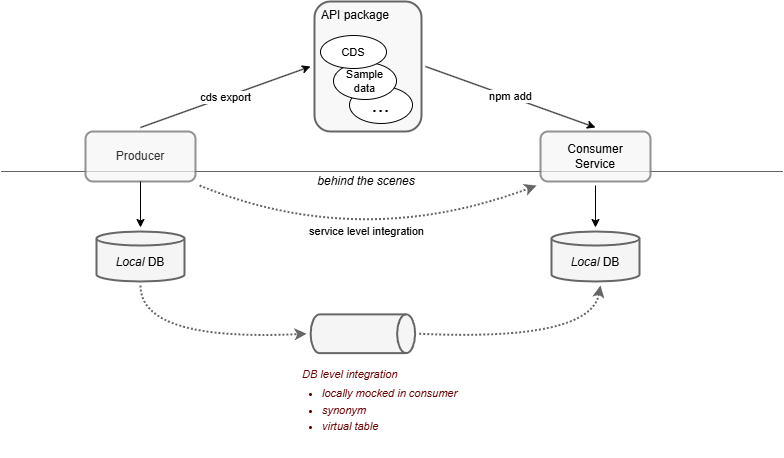
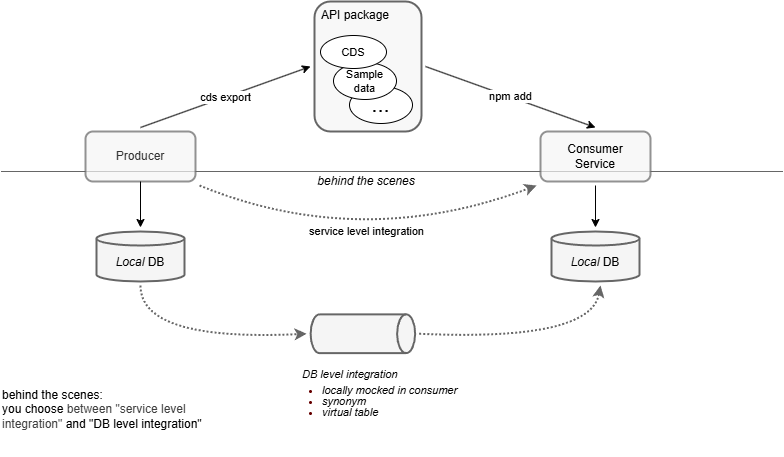
upd

diff --git a/README.md b/README.md
@@ -8,15 +8,15 @@ This repository contains the material for the SAP TechEd 2025 session called AD1
 
 In this document we use the following abbreviations:
 * CAP for [SAP Cloud Application Programming Model](https://cap.cloud.sap/docs/)
-* HANA for [SAP HANA Cloud](https://www.sap.com/products/data-cloud/hana.html)
+* HANA for [SAP HANA Cloud, SAP HANA Database](https://www.sap.com/products/data-cloud/hana.html)
 * BTP for [SAP Business Technology Platform](https://www.sap.com/products/technology-platform.html)
 * BDC for [SAP Business Data Cloud](https://www.sap.com/products/data-cloud.html)
 
 
 ## Overview
 
-This session introduces attendees to Data Federation with CAP,
-and in particular shows how to integrate a Data Product of BDC into a CAP application.
+This session introduces attendees to the concept of Data Federation with CAP,
+and then shows how to apply this concept to integrate a Data Product of BDC into a CAP application.
 
 CAP Data Federation is about sharing data between two CAP apps or between a CAP app and another party.
 We distinguish between what a developer needs to do in the model and the technical
@@ -29,14 +29,20 @@ The picture shows Data Federation between two CAP apps, but the general pattern 
 The producing app provides an interface to the data and publishes its definition. The consuming app imports
 the interface definition and builds on top of it.
 
-In the first part of this session, you build two CAP apps: _xflights_ is an app that holds masterdata
+In the first part of this session (Exercises 1 and 2), you build two CAP apps: _xflights_ is an app that holds masterdata
 for flights, airlines, ... and provides an API to access the data. _xtravels_ allows to book travels and flights
 and makes use of the masterdata provided by _xflights_.
 
 
-In the second part of the session, you extend the _xtravels_ app and also consume a BDC Data Product.
+In the second part of the session (Exercises 3 and 4), you extend the _xtravels_ app and also consume a BDC Data Product.
 
 <br>![](./assets/images/i_0020.png)
+
+In CAP, Data Product consumption is always realized via virtual tables and remote sources in a HANA Cloud database instance.
+That is, the CAP application doesn't directly communicate with BDC via the Delta Sharing protocol,
+but utilizes a HANA remote source with the "deltasharing" adapter for this communication. 
+The Data Product's share tables are represented via virtual tables in HANA, so that from a modelling perspective
+they are not different from local tables.
 
 This session focuses on the CAP part of the integration: we assume that there already is a BDC tenant with
 the required Data Product installed, and that we have access to that tenant.
@@ -81,7 +87,7 @@ Product entities with virtual tables in the prepared schema (and thus to a BDC t
     - [Exercise 2.5 - Run the XTravels app with flights being mocked](exercises/ex2/README.md#exercise-25---run-the-xtravels-app-with-flights-being-mocked)
     - [Exercise 2.6 - Get flights data from xflights app](exercises/ex2/README.md#exercise-26---get-flights-data-from-xflights-app)
     - [Exercise 2.7 - Cleanup](exercises/ex2/README.md#exercise-27---cleanup)
-- [Exercise 3 - Consume S/4 Data Product Customer](exercises/ex3/)
+- [Exercise 3 - Consume Data Product "Customer" from S/4](exercises/ex3/)
     - [Exercise 3.1 - Discovery](exercises/ex3/README.md#exercise-31---discovery)
     - [Exercise 3.2 - Download Data Product metadata](exercises/ex3/README.md#exercise-32---download-data-product-metadata)
     - [Exercise 3.3 - Import Data Product metadata](exercises/ex3/README.md#exercise-33---import-data-product-metadata)

diff --git a/exercises/ex4/README.md b/exercises/ex4/README.md
@@ -3,14 +3,14 @@
 In this exercise, you will deploy the database model of the xtravels app
 to a HANA Cloud instance and connect the Data Product entity `Customer`
 to a BDC tenant.
-You will run the xtravels app in hybrid mode: the app still runs locally on your laptop,
-but is connected to an HDI container in a HANA Cloud instance.
+You will run the xtravels app in [hybrid mode](https://cap.cloud.sap/docs/advanced/hybrid-testing#hybrid-testing):
+the app still runs locally on your laptop, but is connected to an HDI container in a HANA Cloud instance.
 
 
 This session focuses on the CAP part of the integration with a BDC Data Product.
 Prior to the session, we have already
 * prepared a BDC tenant with the "Customer" Data Product installed
-* created a HANA remote source in the HANA instance, which points to the share
+* created a HANA remote source in the HANA instance, which points to the share (see also [assets/ex4/HANA-setup](../../assets/ex4/HANA-setup.md))
 * created a schema `DP_VT_CUSTOMER` in the HANA instance with virtual tables pointing
   to the share tables in the BDC tenant.
 * prepared a user-provided service `grantor-dp-admin` in Cloud Foundry that holds credentials for accessing this schema.
@@ -71,6 +71,9 @@ like _sap.s4com.Customer.v1.Customer.hdbtable_.
     deploy the database model of your app to it.
 
     Note that a file `.cdsrc-private.json` has been created in the _xtravels_ folder.
+    When running the app in hybrid mode in the next step, this file helps to bind
+    the `db` service of the app to a managed Cloud Foundry service of kind `hana`
+    with plan `hdi-shared` that represents your HDI container.
 
 
 
@@ -111,7 +114,8 @@ but this time it is connected to the HANA Cloud instance:
 
 3. Open the [xtravels web app](http://localhost:4004/travels/webapp/index.html).  
 You still see the same test data as before, but now the data isn't coming from an
-SQLite in-memory database, but from a mock table in the HANA instance.
+SQLite in-memory database, but from a table in the HANA instance filled with the same
+test data.
 
 4. Stop `cds watch` by typing `Ctrl+C` into the xtravels terminal.
 
@@ -177,6 +181,9 @@ and let CAP do the necessary steps.
 2. Move the file _sap.s4com-Customer.v1.Customer.csv_ from folder _xtravels/db/data_ to folder _xtravels_.
 
     <br>![](/exercises/ex4/images/04_05_0010.png)
+
+    This is simply to avoid that the _.csv_ file with test data for `Customer` is deployed.
+    Otherwise the deployment would fail, because there is no `Customer` table anymore.
 
 3. In folder _xtravels/db/src_, create a file _sap.s4com.Customer.v1.Customer_syn.hdbsynonym_ with the following content:
     ```json
@@ -273,9 +280,9 @@ The plugin is activated via configuration. Here you have to provide the schema i
 for the Data Product entities in the imported API package can be found.
 
 1. Open file _xtravels/package.json_ and add a `cds` section:
-    ```jsonc
+    ```json
     {
-      // ...
+      ... existing content ...
       "cds": {
         "requires": {
           "sap.s4com.Customer.v1": {

diff --git a/exercises/ex3/README.md b/exercises/ex3/README.md
@@ -1,4 +1,4 @@
-# Exercise 3 - Consume S/4 Data Product Customer
+# Exercise 3 - Consume Data Product "Customer" from S/4
 
 From a modelling point of view, there is no difference between consuming
 data from another CAP app (like you did in the previous exercise) or consuming
@@ -21,20 +21,20 @@ in [SAP Business Accelerator Hub](https://api.sap.com/).
 
 1. Go to [SAP Business Accelerator Hub](https://api.sap.com/).
 
-    <br>![](/exercises/ex3/images/03_01_0010.png)
+
 
 2. In the top row, go to tab [Data Products](https://api.sap.com/dataproducts).
 
-    <br>![](/exercises/ex3/images/03_01_0020.png)
+    <br>![](/exercises/ex3/images/03_01_0010.png)
 
 3. Here you can browse the available Data Products.
-Enter "Customer"  in the search field and press "Return".
+Enter "Customer" in the search field and press "Return".
 
-    <br>![](/exercises/ex3/images/03_01_0030.png)
+    <br>![](/exercises/ex3/images/03_01_0020.png)
 
 4. Click on the tile for Data Product [Customer](https://api.sap.com/dataproduct/sap-s4com-Customer-v1/overview).
 
-    <br>![](/exercises/ex3/images/03_01_0040.png)
+    <br>![](/exercises/ex3/images/03_01_0030.png)
 
 
 
@@ -43,20 +43,26 @@ Enter "Customer"  in the search field and press "Return".
 After completing these steps, you will have downloaded a CSN file with the metadata of
 Data Product "Customer" to _ws/xtravels_.
 
-1. At the bottom of the screen, follow the link to the
+1. At the bottom of the screen for Data Product "Customer", follow the link to the
 [Delta Sharing API](https://api.sap.com/api/sap-s4com-Customer-v1/overview).
 
-    <br>![](/exercises/ex3/images/03_02_0010.png)
+    <br>![](/exercises/ex3/images/03_01_0040.png)
 
-    The ORD ID uniquely identifies this API.
+2. On this page, you find the "ORD ID" that uniquely identifies this API.
+The ID is based on the [Open Resource Discovery (ORD)](https://open-resource-discovery.github.io/specification/introduction) protocol.
+The API is described as "CSN Interop JSON", which can be downloaded from here.
+
+    <br>![](/exercises/ex3/images/03_02_0010.png)
 
 2. Download the CSN Interop JSON. It will probably be stored
 as file _sap-s4com-Customer-v1.json_ in directory _C:\Users\TE-XX\Downloads_.
 
+    If you should not be able to download the CSN Interop JSON for any reason,
+    you can use [_assets/ex3/sap-s4com-Customer-v1.json_](../../assets/ex3/sap-s4com-Customer-v1.json).
+
 3. Copy the file to folder _xtravels_ in your workspace.
 
     <br>![](/exercises/ex3/images/03_02_0020.png)
-
 
 
 
@@ -134,7 +140,7 @@ interface to entity `Customer` of the imported API.
 
     namespace sap.capire.travels.masterdata;
 
-    entity Customers as projection on Cust.Customer {
+    @federated entity Customers as projection on Cust.Customer {
       Customer as ID,
       CustomerName as FullName,
       StreetName as Street,

diff --git a/exercises/ex1/README.md b/exercises/ex1/README.md
@@ -121,7 +121,7 @@ After completing these steps, you will have an OData service for the _xflights_ 
 Now you add an OData service that allows us to see the data in the app. This could be extended
 to a full fledged maintenance UI for the xflights app, but this is not part of this session.
 
-1. In folder _xflights/srv_, create a file _fiori-service.cds_.
+1. In folder _xflights/srv_, create a file _flights-service.cds_.
 
 2. Fill the file with this content:
     ```cds
@@ -148,7 +148,7 @@ to a full fledged maintenance UI for the xflights app, but this is not part of t
     [cds] - loaded model from 4 file(s):
 
       ..\<path>\node_modules\@sap\cds\srv\outbox.cds
-      srv\fiori-service.cds
+      srv\flights-service.cds
       db\schema.cds
       ..\<path>\node_modules\@sap\cds\common.cds
 
@@ -162,7 +162,7 @@ to a full fledged maintenance UI for the xflights app, but this is not part of t
     }
     [cds] - serving FlightsService {
       at: [ '/odata/v4/flights' ],
-      decl: 'srv\\fiori-service.cds:3',
+      decl: 'srv\\flights-service.cds:3',
       impl: '..\\<path>\\node_modules\\@sap\\cds\\srv\\app-service.js'
     }
     [cds] - server listening on { url: 'http://localhost:4005' }
@@ -228,7 +228,7 @@ for entities `Flights` and `Connections`.
 
 2. Fill the file with this content:
     ```cds
-    using { FlightsService } from '../srv/fiori-service';
+    using { FlightsService } from '../srv/flights-service';
 
     annotate FlightsService.Connections with @UI.LineItem: [
       { Value: ID },
@@ -357,6 +357,10 @@ that acts as an API to retrieve some data from the xflights app.
     is made available: via OData, via plain rest, and via the CAP specific `hcql` protocol
     (which basically is the transport of [CQL](https://cap.cloud.sap/docs/cds/cql) - an extension of SQL that adds support for path expressions - over HTTP).
 
+    > [!TIP]
+    > Annotations `@hcql`, `@rest`, and `@odata` are shortcuts for the corresponding
+    [`@protocol`](https://cap.cloud.sap/docs/node.js/cds-serve#protocol) annotation.
+
 3. `cds watch` automatically picks up the new service. In the browser, go back to the index page
 on [localhost:4005](http://localhost:4005/) and see the new service being presented via these protocols.
 
@@ -389,6 +393,8 @@ This package contains everything that is needed in a consuming app, including so
     cds export -s sap.capire.flights.data --to ../apis/flights-data
     ```
     This creates the API package as folder _apis/flights-data_ directly in our workspace folder.
+    Usually you would publish the API package, e.g. via npm or github. For our session it
+    is sufficient to have it inside the workspaces folder.
 
 3. Add these lines to the end of the generated file _apis/flights-data/index.cds_:
     ```cds

diff --git a/exercises/ex2/README.md b/exercises/ex2/README.md
@@ -20,6 +20,10 @@ almost complete xtravels app, including a Fiori UI in _xtravels/app/travels_.
 
 <br>![](/exercises/ex2/images/02_01_0010.png)
 
+As some parts of the app are missing, the editor may show some error indicators,
+e.g. red underlines in file _schema.cds_. Don't worry about them, they will disappear
+when we add the missing parts.
+
 1. Have a look at the main entities of xtravels in file _xtravels/db/schema.cds_:
     * Travels:  
       A list of travels. Each travel is assigned to a customer and has some flight bookings.
@@ -310,5 +314,7 @@ In order to keep things simple, you will again use mocked master-data entities
 ## Summary
 
 You've now created CAP app xtravels and consumed the masterdata served by the xflights app.
+So far we have been only looking at CAP level Data Federation with service level replication.
+In the next section we will apply the principles of CAP Data Federation to consume a BDC Data Product.
 
 Continue to - [Exercise 3 - Consume S/4 Data Product Customer](../ex3/README.md)

diff --git a/assets/ex4/HANA-setup.md b/assets/ex4/HANA-setup.md
@@ -1,0 +1,17 @@
+# HANA Setup
+
+Based on a URL <hdlfs-url> to a HDLFS container and a certificate that
+grants access, the HANA objects for this session were created like this:
+
+```sql
+CREATE PSE PSE_BDC;
+ALTER PSE PSE_BDC SET OWN CERTIFICATE '<certificate>';
+
+CREATE REMOTE SOURCE RS_BDC 
+  ADAPTER "deltasharing" CONFIGURATION 'provider=hdlf;endpoint=<hdlfs-url>;'
+  WITH CREDENTIAL TYPE 'X509' PSE PSE_BDC;
+
+CREATE VIRTUAL TABLE Customer        AT RS_BDC."sap.s4com.customer:v1"."customer"."customer";
+CREATE VIRTUAL TABLE CustomerDunning AT RS_BDC."sap.s4com.customer:v1"."customer"."customerdunning";
+-- ...
+```
